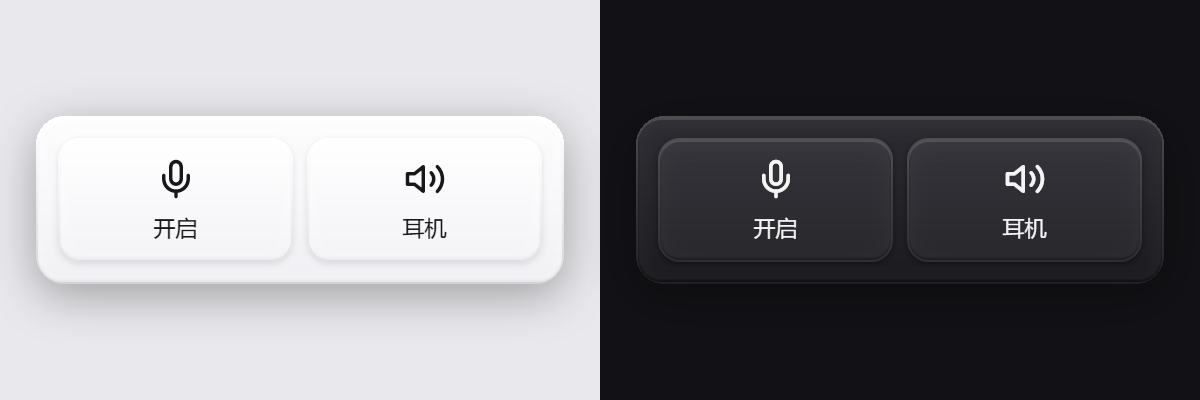
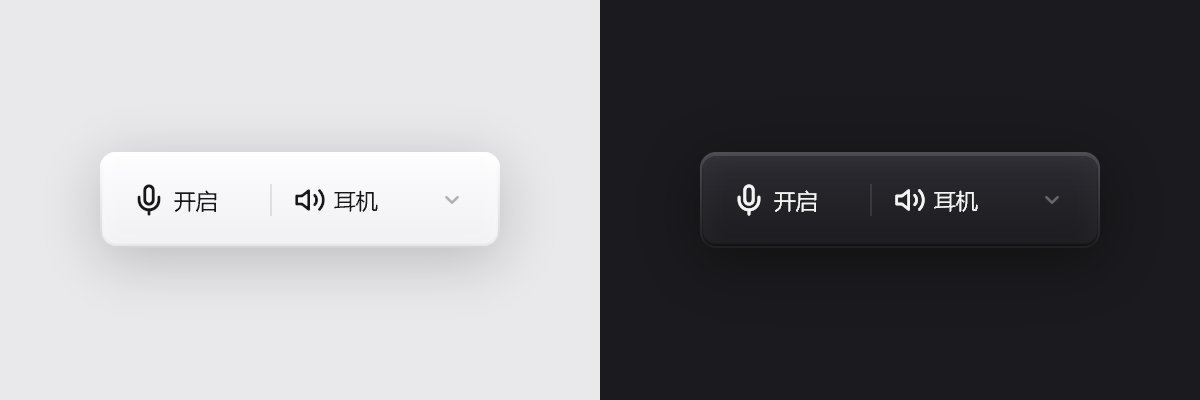
Make the card one compact row that meets the window's corners
The card is 200 by 48 DIP now: the microphone and the output, each a
zone of the card rather than a raised tile, with a hairline between
them and the output's name and picker on one line. A size saved by the
wider card before it is replaced on startup.

Windows rounds a frameless window to its own radius, whatever
CornerRadius asks for, so the card draws that radius and runs its face
underneath: the window's clip is the card's edge, and a corner it
rounds a hair wider shows the card rather than the background. The
alternatives, including why a capsule would need a transparent window,
are in docs/window-corners.md.

diff --git a/widget.go b/widget.go
@@ -7,19 +7,36 @@ import (
 	"github.com/egoist/mygo/ui"
 )
 
-// The card is two tiles, as wide and as tall as they are.
+// The card is one row: the microphone and the output, each a zone of it.
 const (
-	widgetWidth  = 264
-	widgetHeight = 84
+	widgetWidth  = 200
+	widgetHeight = 48
 )
 
-// The card lays its tiles out in a row of that padding and gap; each tile
-// fills the rest.
+// The card lays its zones out in a row of that padding and gap, with a
+// hairline between them; each zone is as tall as the row, and the microphone
+// one keeps its width so that the output does not move as the microphone
+// changes state.
+//
+// cardRadius is the radius Windows rounds the window itself to. DWM cuts a
+// frameless window to the corners of its own windows, whatever radius it is
+// given, so the card draws the same radius to meet the edge it is cut at;
+// docs/window-corners.md has the alternatives and their tradeoffs.
 const (
-	cardPadding = 10
-	cardGap     = 7
-	cardRadius  = 13
-	tileRadius  = 11
+	cardPadding = 8
+	cardGap     = 4
+	cardRadius  = 8
+	zoneHeight  = 32
+	zoneRadius  = 8
+	zonePadding = 7
+	zoneGap     = 4
+	micWidth    = 72
+	outputIcon  = 16
+	chevronBox  = 16
+	// nameWidth is what the output's name may take: the output zone's width,
+	// without its padding, its icon, the chevron and the gaps between them.
+	nameWidth = widgetWidth - 2*cardPadding - 2*cardGap - 1 - micWidth -
+		2*zonePadding - outputIcon - chevronBox - 3*zoneGap
 )
 
 // The card's motion: a quick spring for what the pointer does, which should
@@ -50,34 +67,6 @@ func (p plate) paint(e ui.Element) ui.Element {
 	e = e.InsetShadow(0, 1, 0, 0, p.shine)
 	e = e.InsetShadow(0, 2, 12, 0, p.glow)
 	return e.InsetShadow(0, -1, 1, 0, p.shade)
-}
-
-// lit is the plate with the light a pointer over it gives.
-func (p plate) lit(dark bool) plate {
-	toward := ui.RGB(0, 0, 0)
-	if dark {
-		toward = ui.RGB(255, 255, 255)
-	}
-	p.face.From = p.face.From.Mix(toward, 0.07)
-	p.face.To = p.face.To.Mix(toward, 0.07)
-	return p
-}
-
-// mix is the plate f of the way from p to o, for a material that changes
-// with the audio rather than blinking into its next state.
-func (p plate) mix(o plate, f float32) plate {
-	return plate{
-		face: ui.LinearGradient{Angle: p.face.Angle,
-			From: p.face.From.Mix(o.face.From, f),
-			To:   p.face.To.Mix(o.face.To, f)},
-		edge: ui.LinearGradient{Angle: p.edge.Angle,
-			From: p.edge.From.Mix(o.edge.From, f),
-			To:   p.edge.To.Mix(o.edge.To, f)},
-		shine: p.shine.Mix(o.shine, f),
-		glow:  p.glow.Mix(o.glow, f),
-		shade: p.shade.Mix(o.shade, f),
-		cast:  p.cast.Mix(o.cast, f),
-	}
 }
 
 // cardPlate is the material of the card itself, which sits on the desktop
@@ -146,27 +135,47 @@ func tilePlate(t *ui.Theme, tint ui.Color) plate {
 	}
 }
 
-// view draws the card: the microphone and the output, each a tile that does
+// view draws the card: the microphone and the output, each a zone that does
 // its switch where it is clicked. The card's edge moves the window, as a
-// panel of macOS moves by what it is not, so that the tiles stay free to be
+// panel of macOS moves by what it is not, so that the zones stay free to be
 // switches.
 func (a *app) view(c *ui.Context) {
 	// One read of what the audio does for the whole frame, so that the two
-	// tiles cannot show two different states.
+	// zones cannot show two different states.
 	st, err := a.snapshot()
 	t := c.Theme()
-	card := cardPlate(t).paint(ui.Row(c).Fill().
-		Padding(cardPadding).Gap(cardGap).AlignItems(ui.Stretch).Radius(cardRadius))
-	card.Cursor(ui.CursorGrab).DragWindow().Children(func() {
-		a.micTile(c, st, err)
-		a.outputTile(c, st, err)
+	p := cardPlate(t)
+	// The face runs under the card too: Windows rounds the window itself,
+	// and a corner it rounds a hair wider than the card would otherwise
+	// show the background behind it.
+	ui.Box(c).Fill().LinearGradient(p.face).Children(func() {
+		a.card(c, st, err, t, p)
 	})
 }
 
-// micTile is the microphone: a click mutes or unmutes it. The card turns to
+// card draws the card: the microphone and the output, each a zone that does
+// its switch where it is clicked. The card's edge moves the window, as a
+// panel of macOS moves by what it is not, so that the zones stay free to be
+// switches.
+func (a *app) card(c *ui.Context, st audioState, err error, t *ui.Theme, p plate) {
+	card := p.paint(ui.Row(c).Fill().
+		Padding(cardPadding).Gap(cardGap).AlignItems(ui.Center).Radius(cardRadius))
+	card.Cursor(ui.CursorGrab).DragWindow().Children(func() {
+		a.micZone(c, st, err)
+		cardDivider(c, t)
+		a.outputZone(c, st, err)
+	})
+}
+
+// cardDivider parts the microphone from the output.
+func cardDivider(c *ui.Context, t *ui.Theme) {
+	ui.Box(c).Width(1).Height(16).Background(t.Text.Alpha(0.10))
+}
+
+// micZone is the microphone: a click mutes or unmutes it. The zone turns to
 // the danger color as it does, and the microphone in it gives way to the
 // one with a line through it, both on the way the spring carries.
-func (a *app) micTile(c *ui.Context, st audioState, err error) {
+func (a *app) micZone(c *ui.Context, st audioState, err error) {
 	t := c.Theme()
 	muted := st.Mic.Muted && err == nil
 
@@ -178,17 +187,18 @@ func (a *app) micTile(c *ui.Context, st audioState, err error) {
 	case err != nil:
 		value, valueColor = "不可用", t.TextMuted
 	case st.Mic.Device == "":
-		value, valueColor = "未找到麦克风", t.TextMuted
+		value, valueColor = "未找到", t.TextMuted
 	}
 
-	tile, ctl := cardTile(c, t.Danger, muted, "切换麦克风")
+	zone, ctl := cardZone(c, t.Danger, muted, "切换麦克风")
+	zone.Width(micWidth)
 	mute := ctl.mute
 	ink := t.Text.Mix(t.Danger, mute)
 
-	tile.OnClick(a.toggle).Children(func() {
+	zone.OnClick(a.toggle).Children(func() {
 		// The two microphones sit in one place, one fading in as the other
-		// fades out, so that the tile changes rather than blinks.
-		ui.Box(c).Size(21, 21).Children(func() {
+		// fades out, so that the zone changes rather than blinks.
+		ui.Box(c).Size(17, 17).Children(func() {
 			for _, glyph := range []struct {
 				svg  *ui.SVG
 				fade float32
@@ -199,73 +209,81 @@ func (a *app) micTile(c *ui.Context, st audioState, err error) {
 				{micOffSVG, (1 - mute) * (1 - mute)},
 			} {
 				icon := ui.Box(c).Absolute().Fill().Center().Opacity(1 - glyph.fade)
-				icon.Children(func() { ui.Icon(c, glyph.svg).FontSize(21).TextColor(ink) })
+				icon.Children(func() { ui.Icon(c, glyph.svg).FontSize(17).TextColor(ink) })
 			}
 		})
 		ui.Text(c, value).FontSize(11).TextColor(valueColor.Mix(t.Danger, mute)).SingleLine().Ellipsis("…")
 	})
 }
 
-// outputTile is the output: a click switches to the one the user was on
+// outputZone is the output: a click switches to the one the user was on
 // before, and the arrow picks another.
-func (a *app) outputTile(c *ui.Context, st audioState, err error) {
+func (a *app) outputZone(c *ui.Context, st audioState, err error) {
 	t := c.Theme()
 	value, valueColor := shortName(st.Output.Name), t.Text
 	switch {
 	case err != nil:
 		value, valueColor = "不可用", t.TextMuted
 	case value == "":
-		value, valueColor = "未找到输出设备", t.TextMuted
+		value, valueColor = "未找到", t.TextMuted
 	}
 
-	tile, ctl := cardTile(c, t.Danger, false, "切换输出")
+	zone, ctl := cardZone(c, ui.Color{}, false, "切换输出")
+	zone.Grow(1)
 
-	tile.OnClick(a.switchOutput).Children(func() {
-		ui.Icon(c, speakerSVG).FontSize(21).TextColor(t.Text)
-		ui.Text(c, value).FontSize(11).TextColor(valueColor).SingleLine().Ellipsis("…")
-		// The way to another output rises with the pointer, so that the
-		// tile is nothing but the output at rest.
+	zone.OnClick(a.switchOutput).Children(func() {
+		ui.Icon(c, speakerSVG).FontSize(outputIcon).TextColor(t.Text)
+		ui.Text(c, value).FontSize(11).TextColor(valueColor).SingleLine().
+			Ellipsis("…").MaxWidth(nameWidth)
+		ui.Spacer(c)
+		// The way to another output, faint at rest and lit with the pointer,
+		// as the zone washes.
 		if st.Outputs > 1 {
-			more := ui.Box(c).Size(18, 18).Radius(5).Center().
-				Absolute().Top(3).Right(3).Cursor(ui.CursorPointer).Label("选择输出").
-				Opacity(ctl.lift)
+			more := ui.Box(c).Size(chevronBox, chevronBox).Radius(5).Center().
+				Cursor(ui.CursorPointer).Label("选择输出").Opacity(0.55 + 0.45*ctl.lift)
 			if more.Hovered() {
 				more.Background(t.Text.Alpha(0.08))
 			}
 			more.OnClick(a.chooseOutput).Children(func() {
-				ui.Icon(c, chevronSVG).FontSize(10).TextColor(t.TextMuted)
+				ui.Icon(c, chevronSVG).FontSize(11).TextColor(t.TextMuted)
 			})
 		}
 	})
 }
 
-// control is what a tile's motion runs on: how far it has turned to the
-// danger color, and how far the pointer has lifted it.
+// control is what a zone's motion runs on: how far it has turned to the
+// danger color, and how far the pointer has washed it.
 type control struct {
 	mute, lift float32
 }
 
-// cardTile is a tile of the card: a switch raised from it, which lifts as
-// the pointer arrives and sets down under a press, and turns to tint as the
-// audio does. The element comes back on its own, rather than in control: a
-// build value kept in a struct outlives the frame that made it.
-func cardTile(c *ui.Context, tint ui.Color, muted bool, label string) (ui.Element, control) {
+// cardZone is a zone of the card: the pointer washes it, a press deepens the
+// wash and sets it down, and a state that is on, as a muted microphone, tints
+// it. The element comes back on its own, rather than in control: a build
+// value kept in a struct outlives the frame that made it.
+func cardZone(c *ui.Context, tint ui.Color, muted bool, label string) (ui.Element, control) {
 	t := c.Theme()
-	tile := ui.Column(c).Grow(1).Gap(6).Center().Radius(tileRadius).
+	zone := ui.Row(c).Height(zoneHeight).Gap(zoneGap).Padding(0, zonePadding).
+		AlignItems(ui.Center).Radius(zoneRadius).
 		Cursor(ui.CursorPointer).Label(label)
-	mute := tile.AnimateTo("mute", amount(muted), stateFade)
-	lift := tile.AnimateTo("lift", amount(tile.Hovered()), liftSpring)
-	press := tile.AnimateTo("press", amount(tile.Pressed()), pressSpring)
-	// The pointer lifts the tile a pixel and a press sets it down. Both are
-	// applied here, from the values the springs carry, rather than posed
-	// towards values that are themselves still moving, which would lag.
-	set := 1 - 0.03*press
-	tile.Translate(0, -lift).Scale(set, set)
+	mute := zone.AnimateTo("mute", amount(muted), stateFade)
+	lift := zone.AnimateTo("lift", amount(zone.Hovered()), liftSpring)
+	press := zone.AnimateTo("press", amount(zone.Pressed()), pressSpring)
 
-	material := tilePlate(t, ui.Color{}).mix(tilePlate(t, tint), mute)
-	material = material.mix(material.lit(t.Dark), lift)
-	material.paint(tile).Shadow(0, 1, 3, 0, material.cast)
-	return tile, control{mute: mute, lift: lift}
+	// The wash of the pointer, deeper under a press; a state that is on
+	// tints the zone, and the wash deepens that tint.
+	wash := 0.05*lift + 0.06*press
+	background := t.Text.Alpha(wash)
+	if tint != (ui.Color{}) {
+		background = background.Mix(tint.Alpha(0.13+wash), mute)
+	}
+	zone.Background(background)
+
+	// The press sets the zone down, from the value the spring carries rather
+	// than towards one that is itself still moving, which would lag.
+	set := 1 - 0.03*press
+	zone.Scale(set, set)
+	return zone, control{mute: mute, lift: lift}
 }
 
 // amount is a state as the value its animations run to.
@@ -277,7 +295,7 @@ func amount(on bool) float32 {
 }
 
 // shortName is a device name without the adapter Windows adds in brackets:
-// "耳机 (Realtek USB Audio)" is "耳机", which is what a tile shows. The
+// "耳机 (Realtek USB Audio)" is "耳机", which is what the card shows. The
 // picker shows the whole name.
 func shortName(name string) string {
 	for _, bracket := range []string{" (", "（"} {

diff --git a/main.go b/main.go
@@ -133,12 +133,17 @@ func (a *app) ready() {
 		MaxHeight:     widgetHeight,
 		Frameless:     true,
 		Panel:         true,
-		CornerRadius:  14,
+		CornerRadius:  cardRadius,
 		DisableResize: true,
 		// Opens where the user left it, and stays where they drag it.
 		StateKey: "widget",
 		Content:  ui.View(a.view),
 	})
+	// The card is one size: a state saved by the wider card before it must
+	// not stretch it.
+	if w, h := a.win.Size(); w != widgetWidth || h != widgetHeight {
+		a.win.SetSize(widgetWidth, widgetHeight)
+	}
 	// Closing the card hides it: the tray icon keeps the tool at hand.
 	a.win.OnClose(func(e *mygo.CloseEvent) {
 		if a.quitting.Load() {

diff --git a/docs/window-corners.md b/docs/window-corners.md
@@ -1,0 +1,57 @@
+# 窗口圆角与卡片形状
+
+面板是一个无边框的常驻窗口（`Frameless` + `Panel`）。它的外轮廓并不完全由卡片自己的 `Radius` 决定：Windows 会先把窗口裁成系统自己的圆角，卡片只能画在这条裁剪线以内。本文记录这个约束、现在的做法，以及想画别的形状时的取舍。
+
+## 现象
+
+把卡片画成 24 DIP 的胶囊后，窗口实际仍是小圆角；卡片圆角之外的四角露出深色背景，在深色主题下接近黑色。
+
+## 原因
+
+Windows 11 的 DWM 会给无边框窗口套上系统自己的圆角，半径固定（实测 125% 缩放时约 10 物理像素，即 8 DIP），并把窗口内容裁剪到这条弧线。MyGo v0.8.3 的 `WindowOptions.CornerRadius` 在各平台的行为不同：
+
+- macOS：真正把内容和材质裁到给定半径；
+- Windows：只调用 `DwmSetWindowAttribute(DWMWA_WINDOW_CORNER_PREFERENCE, DWMWCP_ROUND)`，请求 DWM 圆角，圆角大小由系统决定，传入的数值被忽略；
+- Linux：不做圆角。
+
+所以窗口的真实轮廓始终是系统半径的圆角矩形。卡片画 24 DIP 胶囊时，胶囊弧线缩在窗口内部，两者之间的楔形区域露出原生 UI 的根背景——主题的 `Background`（深色 `#18181b`），看起来就是黑角。
+
+## 现在的做法
+
+1. 卡片半径跟随窗口：`cardRadius = 8`（`widget.go`）。内部可交互区域也用 8，保持同一套几何。
+2. 在卡片下面铺一层相同的材质渐变（`view` 里的外层 `Box`）。DWM 的裁剪线和卡片弧线即使差半个像素，露出来的也是卡片的面，而不是背景。
+
+这样窗口的裁剪线就是卡片的边线，系统的窗口阴影、贴边吸附和点击区域都不受影响。
+
+## 替代方案与取舍
+
+### 透明窗口 + 自绘阴影
+
+窗口放大，四周留透明边，卡片按任意圆角绘制，阴影自己画，并用 `DisableShadow` 去掉系统阴影。
+
+- 透明边仍然属于窗口的命中区域：卡片周围一圈会吞掉对桌面和其他窗口的点击。
+- 失去 DWM 的窗口阴影和外框，阴影要自己画，还要跟随主题和 DPI。
+- 贴边吸附按窗口矩形计算，需要把透明边的宽度补进去，否则贴不到屏幕边。
+- 原生 UI 的透明依赖 DirectComposition（`Transparent` + 原生 `Content`）；Windows 10 或没有合成的环境会退化成不透明背景。
+- 要消除第一点，需要在 `WM_NCHITTEST` 里对透明边返回 `HTTRANSPARENT`，MyGo 没有暴露这个钩子。
+
+对常驻的小面板来说，这些复杂度和交互代价不划算。
+
+### SetWindowRgn
+
+用 `SetWindowRgn` 把窗口裁成胶囊，同时把 DWM 的圆角偏好关掉（`DWMWCP_DONOTROUND`），否则系统的小圆角会先切掉胶囊的两端。
+
+- 需要直接调用 Win32，MyGo 没有封装。
+- DWM 的阴影跟随窗口边框，不一定跟随 region，形状和阴影可能对不上。
+- DPI 或尺寸变化时要重算 region。
+- 仍是平台特定的 hack，不是原生外观。
+
+### 接受原生圆角（现在的选择）
+
+窗口是什么形状，卡片就画什么形状。外观与 Windows 11 自己的菜单、浮层一致，阴影、吸附、命中测试都保持原生。
+
+如果以后确实需要非矩形轮廓（胶囊、圆形等），优先考虑 MyGo 的 flyout：它本来就是透明窗口，由 MyGo 管理，适合弹出层；常驻窗口不建议做成异形。
+
+## 验证
+
+125% 缩放下，200×48 DIP 的窗口是 250×60 物理像素，DWM 的圆角弧线约 10 物理像素。截图放大后，卡片发丝边与裁剪线重合，四角没有背景色露出。

diff --git a/README.md b/README.md
@@ -10,8 +10,8 @@ Windows 64 位。到 [Releases](https://github.com/Kutius/quick-action/releases/
 
 ## 功能
 
-- **闭麦** — 点击麦克风磁贴，静音或取消静音所有活动的录音设备
-- **切换输出** — 点击输出磁贴，在上一次用过的设备之间互切；鼠标移上去后点右上角箭头，可以从完整列表里挑
+- **闭麦** — 点击麦克风，静音或取消静音所有活动的录音设备
+- **切换输出** — 点击输出设备名，在上一次用过的设备之间互切；鼠标移上去后点右侧箭头，可以从完整列表里挑
 - **托盘图标** — 左键显示 / 收起面板，右键菜单里还有静音、切换输出、退出
 - **全局快捷键** — 默认 `Ctrl+Alt+M` 闭麦、`Ctrl+Alt+O` 切换输出
 - **设置** — 托盘菜单里的「设置…」：开机自启，以及两个快捷键都能自己录；被别的程序占用了会直接说
